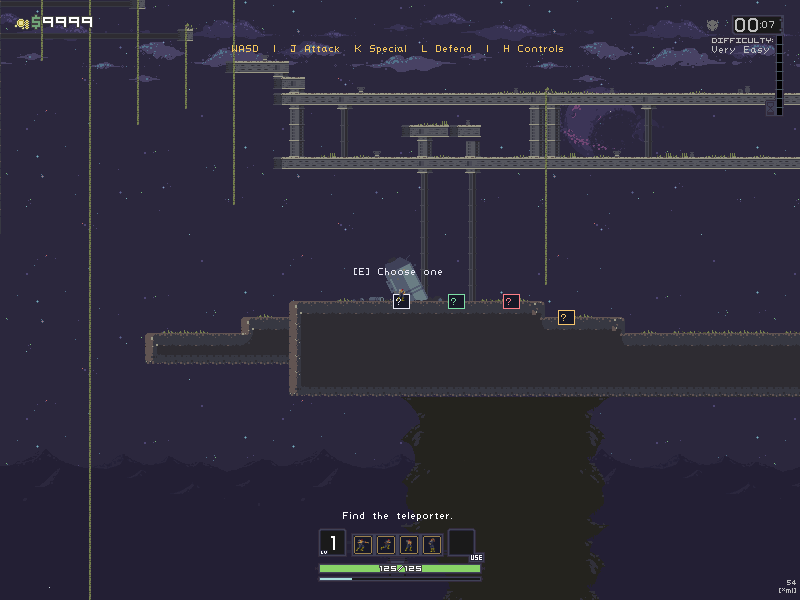
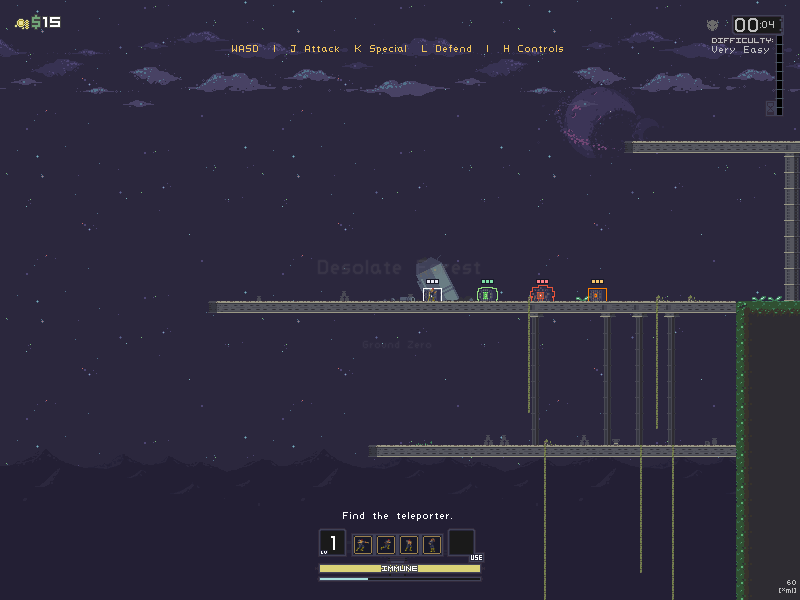
Fix choice chests sunk by centred placeholder rendering
Use the native rarity chest artwork at its original origin, preserve the source mask and scale, and add three rarity lights. Match the hint to native activation eligibility instead of a separate proximity rectangle. Regression tests cover floor alignment, masks and menu state; native playtest verified selection and pickup.

diff --git a/scripts/test.py b/scripts/test.py
@@ -5,7 +5,7 @@ from pathlib import Path
 base=Path(__file__).resolve().parents[1]
 p=argparse.ArgumentParser();p.add_argument('--assets',action='store_true');args=p.parse_args()
 env={**os.environ,'FALCON_MOD_ROOT':os.environ.get('FALCON_MOD_ROOT',str(base/'mods/CaptainFalcon'))}
-tests=['physics','smash-input','controller-canonical','defence-immunity','rope-jump','startup-input','death-state']
+tests=['choice-crates','physics','smash-input','controller-canonical','defence-immunity','rope-jump','startup-input','death-state']
 if args.assets:tests+=['keyboard-routing','controller-routing','jump-pads','melee-audio','native-pose-draw','animation-anchor','melee-renderer','melee-effects']
 for name in tests:
  subprocess.run([sys.executable,str(base/'scripts/run-lua.py'),str(base/'tests'/f'test-{name}.lua')],env=env,cwd=base,check=True)

diff --git a/docs/DEVELOPMENT.md b/docs/DEVELOPMENT.md
@@ -11,7 +11,7 @@
 - `tools/HSDLib/HSDRaw/`: pinned MIT upstream source; see THIRD_PARTY.md.
 - `scripts/build-falcon-art.py`: procedural fallback sprite/mask generation.
 - `scripts/bake-melee-poses.*` and `build-falcon-selection.*`: supersampled original-model animation strips and character selection artwork, generated locally.
-- `tests/`: fast Lua input, physics, defence and asset regression checks. Lua 5.4 is run through Python ctypes; no game files are required for the seven core suites.
+- `tests/`: fast Lua input, physics, defence and asset regression checks. Lua 5.4 is run through Python ctypes; no game files are required for the eight core suites.
 
 The original GameMaker world and collision remain 2D. Gameplay uses 40 precomputed pose strips from the original XYZ model. The software renderer remains available for baking and camera previews. Visual TransN translation is removed; special movement is applied exactly once to the collision actor. These are Melee-inspired RoR controls/combat, not a replacement implementation of every Melee rule.
 
@@ -45,3 +45,5 @@ Contributions should describe the input/trigger, changed behavior and verificati
 For launcher-only checks, run `python3 tests/test-launcher.py`. These simulate the Gamescope/Wine process chain, verify one fullscreen wrapper, preserve paths containing spaces, propagate game failures and check lock release. During live Gamescope tests capture the **outer Gamescope window/display**, since native X11 window captures can contain stale images when Vulkan presents directly to Gamescope.
 
 The launcher stops lingering Wine **service helpers** after the tracked game exits. Cleanup requires all of: a fixed Wine helper name, the same WINEPREFIX, and ancestry under this launch's gamescopereaper. It does not kill arbitrary Wine apps or unrelated prefixes. This handles Wine services that otherwise keep Gamescope/Steam marked running after the actual game has closed.
+
+Three-choice reward artwork uses the original crate sprite, frame, scale and collision mask. Draw at the instance origin; centring a placeholder on this floor anchor buries it. The native `can_activate` state controls the interaction hint. `tests/test-choice-crates.lua` exercises replacement and draw callbacks at a floor anchor and checks native eligibility/menu states.

diff --git a/README.md b/README.md
@@ -54,7 +54,7 @@ Development captures from the Linux/Wine build. Gameplay captures include test f
 
 ![Captain Falcon selected on the survivor screen, with controller and keyboard instructions](docs/screenshots/survivor-selection.png)
 
-![Captain Falcon exploring Damp Caverns with item test crates nearby](docs/screenshots/falcon-gameplay.png)
+![Captain Falcon beside grounded native rarity chests with three-choice lights](docs/screenshots/falcon-gameplay.png)
 
 ![Imported Melee flame particles during Falcon Punch in Desolate Forest](docs/screenshots/falcon-punch-flames.png)
 
